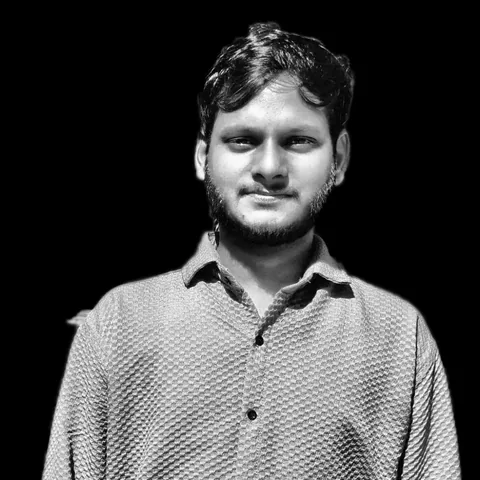
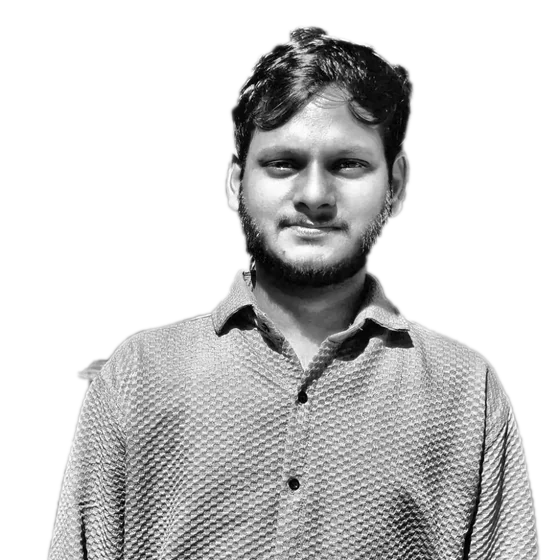
About team: portraits as contour lines on the graphics card, and a pointer disc that never sticks

diff --git a/assets/js/about.js b/assets/js/about.js
@@ -96,7 +96,7 @@ if (gsap && ST) {
   /* ---------------- 4. The team ---------------- */
   const team = document.querySelector('.ab-team'), stick = document.querySelector('.ab-team-stick');
   const face = document.querySelector('.ab-face'), letter = document.querySelector('.ab-letter span'), bar = document.querySelector('.ab-team-bar b'), countN = document.querySelector('.ab-count-n');
-  const portraits = lineFaces(face, people);
+  const portraits = contourFaces(face, people) || lineFaces(face, people);
   let on = 0;
   const pick = (i) => {
     if (i === on) return;
@@ -122,18 +122,30 @@ if (gsap && ST) {
   document.querySelector('.ab-next')?.addEventListener('click', () => go(1));
   document.querySelector('.ab-prev')?.addEventListener('click', () => go(-1));
   // The disc: follows the pointer over the team; its arrow points to the side you are on, and a click goes that way.
+  // Whether it shows is worked out every frame from where the pointer is, not from enter and leave events: the page
+  // glides under a resting pointer (smooth scroll, the pin), and those events never fire then, which left the disc
+  // stuck on screen or missing. It hides over the menu bar and the keyboard buttons.
   const cursor = document.querySelector('.ab-cursor');
   if (cursor && finePointer && !reduce && stick) {
-    const cx = gsap.quickTo(cursor, 'x', { duration: 0.5, ease: 'power3.out' }), cy = gsap.quickTo(cursor, 'y', { duration: 0.5, ease: 'power3.out' });
-    let left = false;
-    stick.addEventListener('pointerenter', (e) => { gsap.set(cursor, { x: e.clientX, y: e.clientY }); gsap.to(cursor, { scale: 1, duration: 0.5, ease: 'back.out(1.6)' }); });
-    stick.addEventListener('pointerleave', () => gsap.to(cursor, { scale: 0, duration: 0.35, ease: 'power2.in' }));
-    stick.addEventListener('pointermove', (e) => {
-      cx(e.clientX); cy(e.clientY);
-      const l = e.clientX < innerWidth / 2; if (l !== left) { left = l; cursor.classList.toggle('is-left', l); }
+    const cx = gsap.quickTo(cursor, 'x', { duration: 0.45, ease: 'power3.out' }), cy = gsap.quickTo(cursor, 'y', { duration: 0.45, ease: 'power3.out' });
+    const P = { x: -1, y: -1, moved: false };
+    let left = false, shown = false;
+    addEventListener('pointermove', (e) => { P.x = e.clientX; P.y = e.clientY; P.moved = true; }, { passive: true });
+    document.documentElement.addEventListener('pointerleave', () => { P.x = P.y = -1; });
+    gsap.ticker.add(() => {
+      if (P.x < 0) { if (shown) { shown = false; gsap.to(cursor, { scale: 0, duration: 0.3, ease: 'power2.in', overwrite: 'auto' }); } return; }
+      const r = stick.getBoundingClientRect(), over = document.elementFromPoint(P.x, P.y);
+      const inside = P.x >= r.left && P.x <= r.right && P.y >= r.top && P.y <= r.bottom && over && stick.contains(over) && !over.closest('.ab-team-nav');
+      if (inside !== shown) {
+        shown = inside;
+        if (inside) { gsap.set(cursor, { x: P.x, y: P.y }); gsap.to(cursor, { scale: 1, duration: 0.45, ease: 'back.out(1.6)', overwrite: 'auto' }); }
+        else gsap.to(cursor, { scale: 0, duration: 0.3, ease: 'power2.in', overwrite: 'auto' });
+        stick.style.cursor = inside ? 'none' : '';
+      }
+      if (shown && P.moved) { cx(P.x); cy(P.y); P.moved = false; const l = P.x < innerWidth / 2; if (l !== left) { left = l; cursor.classList.toggle('is-left', l); } }
     });
-    stick.addEventListener('pointerdown', () => gsap.fromTo(cursor, { scale: 0.85 }, { scale: 1, duration: 0.5, ease: 'back.out(2)' }));
-    face.addEventListener('click', () => go(left ? -1 : 1));
+    stick.addEventListener('pointerdown', () => { if (shown) gsap.fromTo(cursor, { scale: 0.85 }, { scale: 1, duration: 0.5, ease: 'back.out(2)', overwrite: 'auto' }); });
+    stick.addEventListener('click', (e) => { if (shown && !e.target.closest('a, button')) go(left ? -1 : 1); });
   }
 
   if (!reduce) {
@@ -447,6 +459,123 @@ async function world(stage, scrollPos) {
       fg.shadowBlur = 0;
     }
   });
+}
+
+/* ================= 4. Portraits in contour lines ================= */
+// Each face is drawn as contour lines, like a map of its light: every line joins points of equal brightness, so they
+// ring the eyes, the nose and the cheeks. The source is the photo cut out from its background, in grey with local
+// contrast lifted so the eyes keep their shape (assets/img/team/*-lines.webp, the alpha is the cut). It runs on the
+// graphics card: the lines drift slowly, swell gently round the pointer, and one face flows into the other.
+function contourFaces(canvas, items) {
+  if (!canvas) return null;
+  const gl = canvas.getContext('webgl', { premultipliedAlpha: false, antialias: true });
+  if (!gl || !gl.getExtension('OES_standard_derivatives')) return null;
+  const vs = 'attribute vec2 p; void main(){ gl_Position = vec4(p, 0.0, 1.0); }';
+  const fs = `#extension GL_OES_standard_derivatives : enable
+    precision highp float;
+    uniform sampler2D uA, uB; uniform float uMix, uTime, uLevels, uPush; uniform vec4 uFrame; uniform vec2 uPtr; uniform float uDpr;
+    void main() {
+      vec2 uv = (gl_FragCoord.xy - uFrame.xy) / uFrame.zw; uv.y = 1.0 - uv.y;
+      if (uv.x < 0.0 || uv.x > 1.0 || uv.y < 0.0 || uv.y > 1.0) discard;
+      vec2 tu = vec2(0.05 + uv.x * 0.9, 0.005 + uv.y * 0.99);
+      vec4 a = texture2D(uA, tu), b = texture2D(uB, tu);
+      float L = mix(a.r, b.r, uMix), Ld = mix(a.g, b.g, uMix), M = mix(a.a, b.a, uMix);
+      if (M < 0.01) discard;
+      // a gentle swell round the pointer: the lines part and ring it, then settle
+      vec2 d = (uv - uPtr) * vec2(uFrame.z / uFrame.w, 1.0);
+      float bump = exp(-dot(d, d) / 0.006) * uPush;
+      float v = (pow(L, 0.8) + bump * 0.12) * uLevels + uTime * 0.12;
+      float g = fwidth(v);
+      float dist = 0.5 - abs(fract(v) - 0.5);                  // how far from the nearest contour
+      float line = 1.0 - smoothstep(0.0, g * 1.2 + 0.0001, dist);   // one pixel wide, anti-aliased
+      float edge = smoothstep(0.0, 0.08, uv.x) * smoothstep(0.0, 0.08, 1.0 - uv.x) * smoothstep(0.0, 0.1, 1.0 - uv.y);
+      float sparse = 1.0 - smoothstep(0.45, 0.9, g);   // where lines crowd closer than a few pixels, let them go, so no grey smudges
+      float alpha = line * sparse * smoothstep(0.02, 0.4, M) * edge * mix(0.34, 1.0, pow(Ld, 0.75));
+      gl_FragColor = vec4(1.0, 0.957, 0.902, alpha);
+    }`;
+  const sh = (type, src) => { const o = gl.createShader(type); gl.shaderSource(o, src); gl.compileShader(o); if (!gl.getShaderParameter(o, gl.COMPILE_STATUS)) throw new Error(gl.getShaderInfoLog(o)); return o; };
+  let prog;
+  try { prog = gl.createProgram(); gl.attachShader(prog, sh(gl.VERTEX_SHADER, vs)); gl.attachShader(prog, sh(gl.FRAGMENT_SHADER, fs)); gl.linkProgram(prog); if (!gl.getProgramParameter(prog, gl.LINK_STATUS)) throw new Error('link'); }
+  catch (e) { console.warn('[about] portraits', e); return null; }
+  gl.useProgram(prog);
+  const buf = gl.createBuffer(); gl.bindBuffer(gl.ARRAY_BUFFER, buf); gl.bufferData(gl.ARRAY_BUFFER, new Float32Array([-1, -1, 1, -1, -1, 1, 1, 1]), gl.STATIC_DRAW);
+  const loc = gl.getAttribLocation(prog, 'p'); gl.enableVertexAttribArray(loc); gl.vertexAttribPointer(loc, 2, gl.FLOAT, false, 0, 0);
+  const U = (n) => gl.getUniformLocation(prog, n);
+  const uA = U('uA'), uB = U('uB'), uMix = U('uMix'), uTime = U('uTime'), uLevels = U('uLevels'), uPush = U('uPush'), uFrame = U('uFrame'), uPtr = U('uPtr');
+  gl.uniform1i(uA, 0); gl.uniform1i(uB, 1);
+  gl.enable(gl.BLEND); gl.blendFunc(gl.SRC_ALPHA, gl.ONE_MINUS_SRC_ALPHA);
+
+  const blank = () => { const t = gl.createTexture(); gl.bindTexture(gl.TEXTURE_2D, t); gl.texImage2D(gl.TEXTURE_2D, 0, gl.RGBA, 1, 1, 0, gl.RGBA, gl.UNSIGNED_BYTE, new Uint8Array([0, 0, 0, 0])); return t; };
+  const texs = items.map(() => blank());
+  items.forEach((it, i) => {
+    const img = new Image(); img.decoding = 'async';
+    img.onload = () => {
+      // A smooth map of the light: blurred enough that the lines follow the shape of the face, not the grain of the
+      // skin or the weave of a shirt, but not so much that the eyes are lost. The light is filled in up to the edge
+      // of the cut (blur of light-times-cut, divided by blur of the cut), so the outline does not pile up in rings.
+      const S = 256, c = document.createElement('canvas'); c.width = c.height = S; const cg = c.getContext('2d', { willReadFrequently: true });
+      cg.drawImage(img, 0, 0, S, S);
+      const px = cg.getImageData(0, 0, S, S), d = px.data, N = S * S, LM = new Float32Array(N), M = new Float32Array(N), tmp = new Float32Array(N);
+      for (let k = 0; k < N; k++) { const m = d[k * 4 + 3] / 255; M[k] = m; LM[k] = (d[k * 4] / 255) * m; }
+      const box = (a, r) => {                       // one horizontal and one vertical running-average pass
+        for (let y = 0; y < S; y++) { let acc = 0; for (let x = -r; x <= r; x++) acc += a[y * S + Math.min(S - 1, Math.max(0, x))];
+          for (let x = 0; x < S; x++) { tmp[y * S + x] = acc / (2 * r + 1); acc += a[y * S + Math.min(S - 1, x + r + 1)] - a[y * S + Math.max(0, x - r)]; } }
+        for (let x = 0; x < S; x++) { let acc = 0; for (let y = -r; y <= r; y++) acc += tmp[Math.min(S - 1, Math.max(0, y)) * S + x];
+          for (let y = 0; y < S; y++) { a[y * S + x] = acc / (2 * r + 1); acc += tmp[Math.min(S - 1, y + r + 1) * S + x] - tmp[Math.max(0, y - r) * S + x]; } }
+      };
+      // two maps: a heavily smoothed one that the contours follow (even, flowing lines, like a map of depth), and a
+      // lightly smoothed one that sets each line's brightness (so eyes, brows and beard read along the lines)
+      const LM2 = Float32Array.from(LM), Mb = Float32Array.from(M), Mb2 = Float32Array.from(M);
+      [5, 5, 4].forEach((r) => { box(LM, r); box(Mb, r); });
+      [1, 1].forEach((r) => { box(LM2, r); box(Mb2, r); });
+      for (let k = 0; k < N; k++) {
+        const f = Mb[k] > 0.02 ? LM[k] / Mb[k] : 0, f2 = Mb2[k] > 0.02 ? LM2[k] / Mb2[k] : 0;
+        d[k * 4] = Math.round(Math.min(1, f) * 255); d[k * 4 + 1] = Math.round(Math.min(1, f2) * 255); d[k * 4 + 2] = 0; d[k * 4 + 3] = Math.round(M[k] * 255);
+      }
+      cg.putImageData(px, 0, 0);
+      gl.bindTexture(gl.TEXTURE_2D, texs[i]);
+      gl.texImage2D(gl.TEXTURE_2D, 0, gl.RGBA, gl.RGBA, gl.UNSIGNED_BYTE, c);
+      gl.texParameteri(gl.TEXTURE_2D, gl.TEXTURE_MIN_FILTER, gl.LINEAR); gl.texParameteri(gl.TEXTURE_2D, gl.TEXTURE_MAG_FILTER, gl.LINEAR);
+      gl.texParameteri(gl.TEXTURE_2D, gl.TEXTURE_WRAP_S, gl.CLAMP_TO_EDGE); gl.texParameteri(gl.TEXTURE_2D, gl.TEXTURE_WRAP_T, gl.CLAMP_TO_EDGE);
+    };
+    img.src = it.dataset.photo;
+  });
+
+  let w = 0, h = 0, dpr = 1, live = false, cur = 0, next = 0, mix = { v: 0 };
+  const size = () => { dpr = Math.min(devicePixelRatio || 1, 2); w = canvas.clientWidth; h = canvas.clientHeight; canvas.width = Math.round(w * dpr); canvas.height = Math.round(h * dpr); gl.viewport(0, 0, canvas.width, canvas.height); };
+  size(); addEventListener('resize', size);
+  onScreen(canvas, (v) => { live = v; });
+  // the pointer, in the portrait's own coordinates; its pull rises while it moves and fades when it rests
+  const ptr = { x: 0.5, y: 0.5, tx: 0.5, ty: 0.5, push: 0, target: 0 }, frame = { x: 0, y: 0, w: 1, h: 1 };
+  canvas.parentElement.addEventListener('pointermove', (e) => {
+    const r = canvas.getBoundingClientRect();
+    ptr.tx = (e.clientX - r.left - frame.x) / frame.w; ptr.ty = (e.clientY - r.top - frame.y) / frame.h; ptr.target = 1;
+  }, { passive: true });
+  canvas.parentElement.addEventListener('pointerleave', () => { ptr.target = 0; });
+
+  const draw = (time) => {
+    if (!live || !w) return;
+    // the portrait's frame: a little taller than wide, centred, clear of the corners' text
+    const fw = Math.min(w * 0.86, h * 0.8 / 1.1), fh = fw * 1.1;
+    frame.w = fw; frame.h = fh; frame.x = (w - fw) / 2; frame.y = Math.max(h * 0.1, (h - fh) / 2 - h * 0.04);
+    ptr.x += (ptr.tx - ptr.x) * 0.12; ptr.y += (ptr.ty - ptr.y) * 0.12; ptr.push += (ptr.target - ptr.push) * 0.06;
+    gl.clearColor(0, 0, 0, 0); gl.clear(gl.COLOR_BUFFER_BIT);
+    gl.activeTexture(gl.TEXTURE0); gl.bindTexture(gl.TEXTURE_2D, texs[cur]);
+    gl.activeTexture(gl.TEXTURE1); gl.bindTexture(gl.TEXTURE_2D, texs[next]);
+    gl.uniform1f(uMix, smooth(mix.v)); gl.uniform1f(uTime, time); gl.uniform1f(uLevels, 30);
+    gl.uniform1f(uPush, ptr.push); gl.uniform2f(uPtr, ptr.x, ptr.y);
+    // gl_FragCoord runs from the bottom; the frame is given in device pixels from the bottom left
+    gl.uniform4f(uFrame, frame.x * dpr, (h - frame.y - fh) * dpr, fw * dpr, fh * dpr);
+    gl.drawArrays(gl.TRIANGLE_STRIP, 0, 4);
+  };
+  gsap.ticker.add(draw);
+  return { show(i) {
+    if (i === next && mix.v < 1) return;
+    if (i === cur && mix.v === 0) return;
+    if (mix.v >= 1) cur = next;       // the last change finished: start from the face now showing
+    next = i; mix.v = 0;
+    gsap.to(mix, { v: 1, duration: 1.1, ease: 'power2.inOut', overwrite: true, onComplete: () => { cur = next; mix.v = 0; } });
+  } };
 }
 
 /* ================= 4. Portraits drawn in lines ================= */

diff --git a/assets/css/about.css b/assets/css/about.css
@@ -69,7 +69,6 @@
 @media (hover: hover) and (pointer: fine) {
   .ab-team-nav { opacity: 0; transition: opacity .3s; }
   .ab-team-nav:focus-within { opacity: 1; }
-  .ab-face { cursor: none; }
 }
 /* With a mouse, a small disc follows the pointer over the portrait; its arrow turns to the side you are on */
 .ab-cursor { position: fixed; left: 0; top: 0; z-index: 50; width: 88px; height: 88px; margin: -44px 0 0 -44px; border-radius: 50%; background: var(--fg); color: var(--ink); display: grid; place-items: center; pointer-events: none; transform: scale(0); will-change: transform; }
